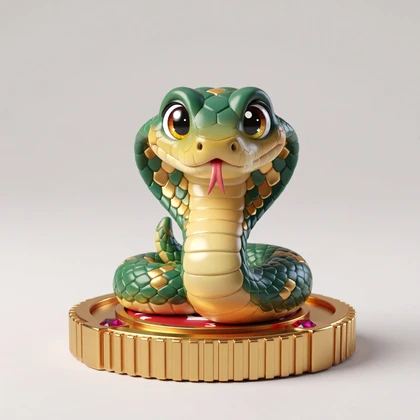
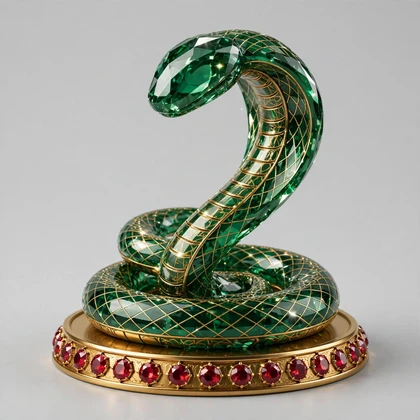
Agrega portadas a los juegos en linea y rediseña iconos infantiles
Agrega icono a Ajedrez, Domino, Tres en Raya, Impostor y Tanda de
Penales (antes solo mostraban un emoji). Rediseña minas, flappy bird,
air wings, trivia, bomberman, snake y carreras como objetos/joyas
elegantes sin rostro, siguiendo el mismo estilo premium del resto del
set de iconos. En la Tanda de Penales ya no se muestra el nombre del
jugador que patea, solo su personaje.

diff --git a/index.html b/index.html
@@ -1617,7 +1617,7 @@
         </button>
         <button class="game-tile wide ornate" data-goto="chess">
           <span style="display:flex; align-items:center; gap:12px;">
-            <span class="icon-badge icon-ruby">♞</span>
+            <span class="icon-badge icon-ruby"><img src="icons/chess.webp" alt=""></span>
             <span>
               <span class="game-name" style="display:block;">Ajedrez con Apuestas</span>
               <span class="game-meta">Contra la CPU o tu liga</span>
@@ -1627,7 +1627,7 @@
         </button>
         <button class="game-tile wide ornate" data-goto="domino">
           <span style="display:flex; align-items:center; gap:12px;">
-            <span class="icon-badge icon-lime">🎲</span>
+            <span class="icon-badge icon-lime"><img src="icons/domino.webp" alt=""></span>
             <span>
               <span class="game-name" style="display:block;">Dominó con Apuestas</span>
               <span class="game-meta">Contra la CPU o tu liga · 2 a 4 jugadores</span>
@@ -1637,7 +1637,7 @@
         </button>
         <button class="game-tile wide ornate" data-goto="tictactoe">
           <span style="display:flex; align-items:center; gap:12px;">
-            <span class="icon-badge icon-pink">❌</span>
+            <span class="icon-badge icon-pink"><img src="icons/tictactoe.webp" alt=""></span>
             <span>
               <span class="game-name" style="display:block;">Tres en Raya</span>
               <span class="game-meta">Contra la CPU o tu liga</span>
@@ -1647,7 +1647,7 @@
         </button>
         <button class="game-tile wide ornate" data-goto="impostor">
           <span style="display:flex; align-items:center; gap:12px;">
-            <span class="icon-badge icon-purple">🕵</span>
+            <span class="icon-badge icon-purple"><img src="icons/impostor.webp" alt=""></span>
             <span>
               <span class="game-name" style="display:block;">Impostor</span>
               <span class="game-meta">Con tu liga · mínimo 3 jugadores</span>
@@ -1657,7 +1657,7 @@
         </button>
         <button class="game-tile wide ornate" data-goto="penalties">
           <span style="display:flex; align-items:center; gap:12px;">
-            <span class="icon-badge icon-green">🥅</span>
+            <span class="icon-badge icon-green"><img src="icons/penalties.webp" alt=""></span>
             <span>
               <span class="game-name" style="display:block;">Tanda de Penales</span>
               <span class="game-meta">Contra la CPU o 1 contra 1 con tu liga</span>
@@ -10758,8 +10758,7 @@
 
     var kickerRow = document.getElementById('penKickerRow');
     if(kickerSeat){
-      kickerRow.innerHTML = '<span class="profile-avatar md ' + profileFrameCls(kickerSeat.frame) + '">' + profileAvatarIcon(kickerSeat.avatar) + '</span>' +
-        '<p style="text-align:center; font-size:.76rem; margin-top:4px;">' + escapeHtml(kickerSeat.name) + ' patea</p>';
+      kickerRow.innerHTML = '<span class="profile-avatar md ' + profileFrameCls(kickerSeat.frame) + '">' + profileAvatarIcon(kickerSeat.avatar) + '</span>';
     }
     var keeperEl = document.getElementById('penKeeper');
     if(keeperEl && keeperSeat) keeperEl.innerHTML = '<span class="profile-avatar md ' + profileFrameCls(keeperSeat.frame) + '">' + profileAvatarIcon(keeperSeat.avatar) + '</span>';
